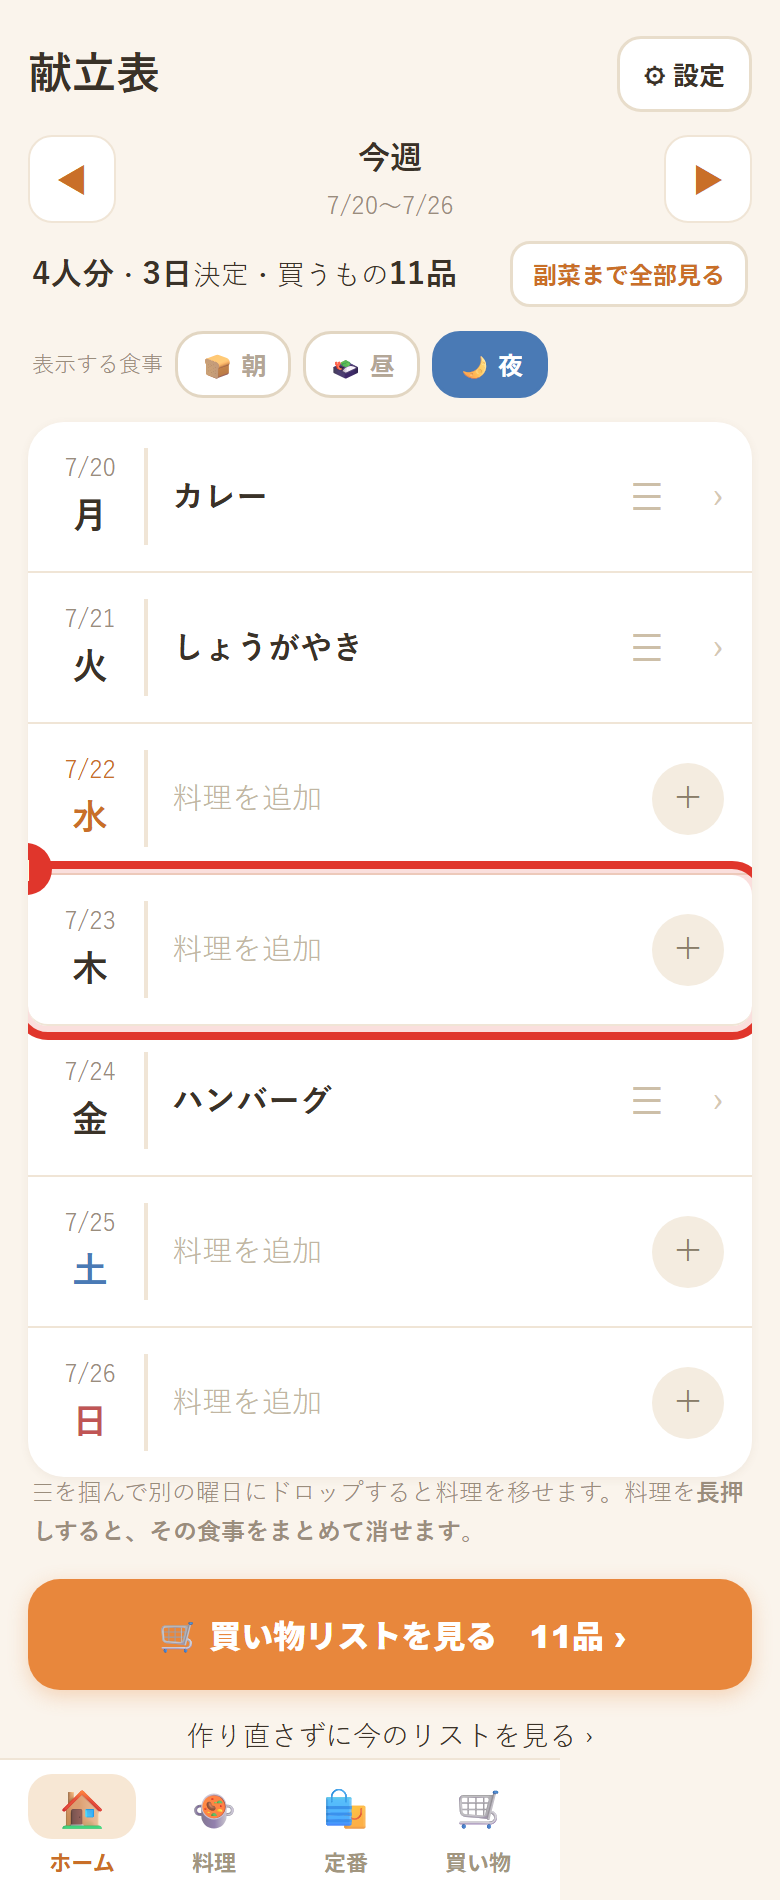
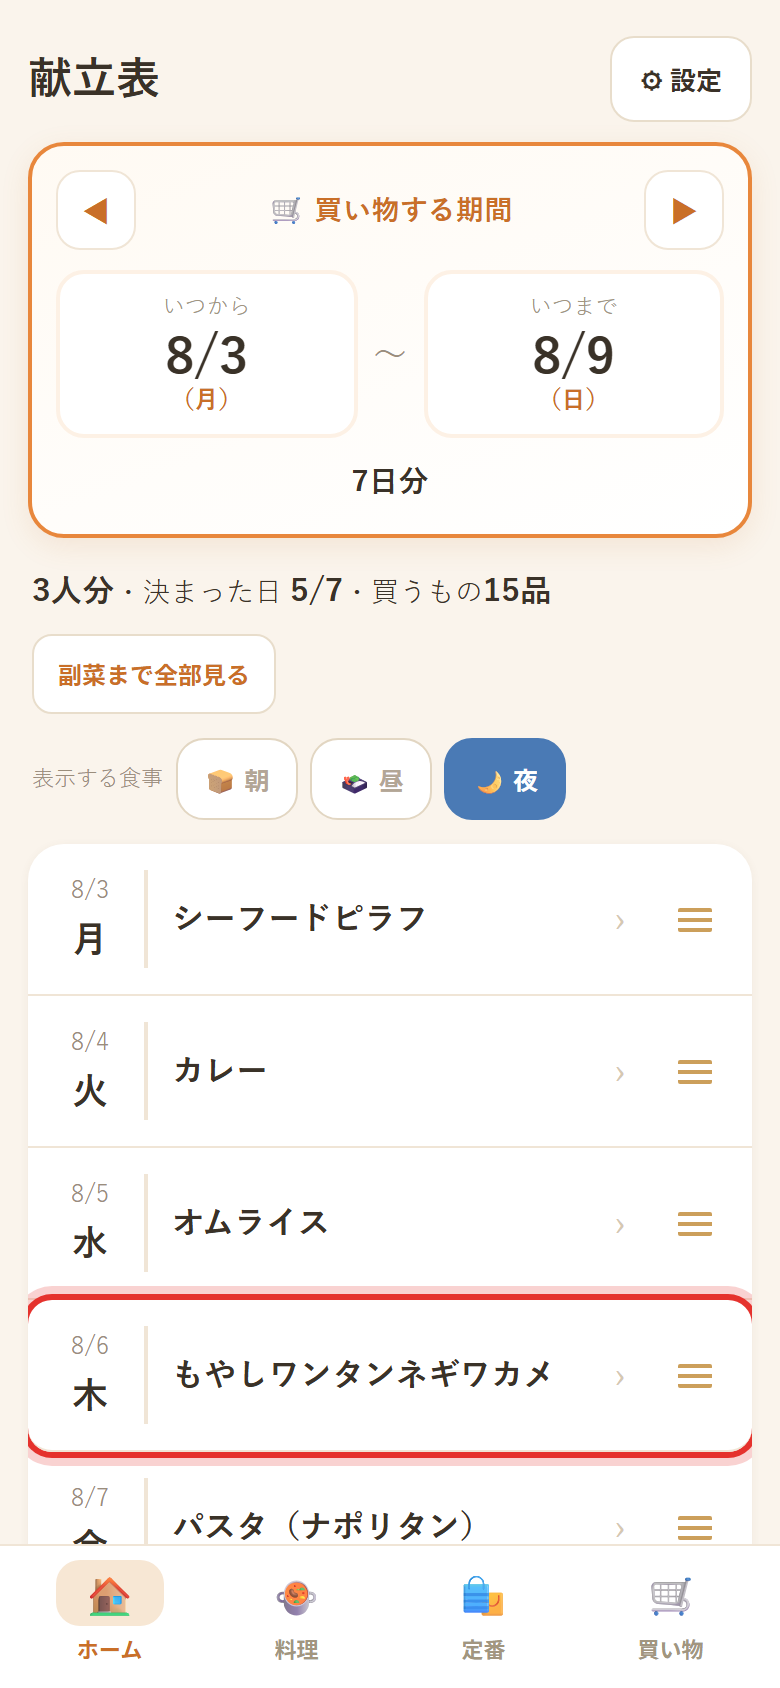
ガイドを今の画面に合わせて全面更新
【画面写真】13枚を撮り直し＋2枚を新規撮影
  旧デザインのまま（古い週ナビ、左端の点々つまみ、期間カード無し）
  だったので、現在の画面で撮り直した。買い物リストの写真には
  材料の出どころ表示・🗑・新しいチェックの見た目も写っている

【新セクション】「買い物中に助かる」を追加（両ページ・目次からも飛べる）
  🗑 今回いらない物を消す／↩ 元に戻す／🍛 材料の出どころ／
  📋 文字でコピー の4つを説明。元に戻すバーとコピーボタンの
  写真つき（g15-undo / g16-copy）

diff --git a/start.html b/start.html
@@ -279,6 +279,7 @@ footer{text-align:center;padding:34px 0;color:var(--sub);font-size:12.5px;font-w
       <a class="toc-card" href="#level"><span class="toc-ic">⭐</span><span class="toc-tx"><b>便利ワザ</b><small>もっとラクになる4つのコツ</small></span></a>
       <a class="toc-card" href="#shop"><span class="toc-ic">🏪</span><span class="toc-tx"><b>お店で分ける</b><small>買い物を店ごとに整理</small></span></a>
       <a class="toc-card" href="#period"><span class="toc-ic">📅</span><span class="toc-tx"><b>買い物の期間</b><small>土曜〜次の土曜など自由に</small></span></a>
+      <a class="toc-card" href="#handy"><span class="toc-ic">🗑</span><span class="toc-tx"><b>買い物中に助かる</b><small>消しても戻せる・出どころ</small></span></a>
       <a class="toc-card" href="#share"><span class="toc-ic">👥</span><span class="toc-tx"><b>家族と共有</b><small>リアルタイムでリストを共有</small></span></a>
       <a class="toc-card" href="#week"><span class="toc-ic">🕘</span><span class="toc-tx"><b>買い物の履歴</b><small>過去のリストを見返す</small></span></a>
       <a class="toc-card" href="#useful"><span class="toc-ic">💡</span><span class="toc-tx"><b>困ったときは</b><small>よくあるお悩み解決</small></span></a>
@@ -552,6 +553,28 @@ footer{text-align:center;padding:34px 0;color:var(--sub);font-size:12.5px;font-w
         <div class="tip"><b>例：土曜・8日・昼まで</b> と設定すると、土曜の朝から次の土曜のお昼までに食べる料理の材料だけがリストに出ます。日曜と月曜の間で区切られないので、買い足しが減ります。</div>
         <div class="tip"><b>そのままでもOK。</b> はじめは「月曜から7日分」になっています。今まで通りに使いたい方は、さわらなくて大丈夫です。</div>
         <p>今の設定はホーム画面の「🛒 買い物リストを見る」のすぐ下に「買い物のぶん：8/1〜8/8」のように出ています。そこを押しても変えられます。</p>
+      </div>
+    </div>
+  </div>
+</section>
+
+<!-- ============ 買い物中に助かる3つ ============ -->
+<section id="handy" style="padding-top:0">
+  <div class="wrap">
+    <div class="two reveal">
+      <div class="stephead"><span class="eyebrow e-p">NEW ・ 買い物中に助かる</span><h3 style="font-size:clamp(19px,2.7vw,25px);font-weight:900;line-height:1.4">消しても戻せる。<br>何に使うかも分かる。</h3></div>
+      <div class="stepbody">
+        <p style="color:var(--sub);margin-top:12px;font-size:15px;font-weight:500">お店で片手で使うことを考えて、うっかりを取り返せるようにしています。</p>
+        <h4 style="margin:18px 0 6px;font-size:16px">🗑 今回いらない物は消せる</h4>
+        <p>「これは家にまだある」という物は、行の右にある<b>🗑</b>で消せます。消した物は、そのあと献立を変えて反映しても<b>戻ってきません</b>（買い物を完了して次のリストを作れば、また出てきます）。</p>
+        <h4 style="margin:18px 0 6px;font-size:16px">↩ 消しても数秒だけ戻せる</h4>
+        <p>消したあと画面の下に「<b>元に戻す</b>」が出ます。品物を消した時だけでなく、<b>献立をまとめて消した時</b>や<b>買い物を完了した時</b>にも出るので、押し間違えても取り返せます。</p>
+        <div class="scr" style="margin:10px 0"><img src="assets/g15-undo.png" alt="買い物リストの下に出る「元に戻す」のバー"></div>
+        <h4 style="margin:18px 0 6px;font-size:16px">🍛 その材料が何に使うか分かる</h4>
+        <p>品名の下に、その材料を使う<b>料理の名前</b>が小さく出ます。「このひき肉、何に使うんだっけ」がその場で分かるので、買う量を減らすか迷った時に役立ちます。定番の物は「定番」、手で足した物は「手で追加」と出ます。</p>
+        <h4 style="margin:18px 0 6px;font-size:16px">📋 LINEなどに文字で送れる</h4>
+        <p>アプリを使っていない家族に頼む時は「<b>リストを文字でコピー</b>」。売り場ごとに整った文字になるので、LINEにそのまま貼れます。</p>
+        <div class="scr" style="margin:10px 0"><img src="assets/g16-copy.png" alt="買い物リストを文字でコピーするボタン"></div>
       </div>
     </div>
   </div>

diff --git a/guide.html b/guide.html
@@ -161,6 +161,7 @@ details p{padding:0 34px 18px 0;color:var(--muted);font-size:14px}
       <a class="toc-card" href="#guide"><span class="toc-ic">📱</span><span class="toc-tx"><b>つかいかた</b><small>まず4ステップだけ見る</small></span></a>
       <a class="toc-card" href="#level"><span class="toc-ic">⭐</span><span class="toc-tx"><b>便利ワザ</b><small>もっとラクになる4つのコツ</small></span></a>
       <a class="toc-card" href="#stores"><span class="toc-ic">🏪</span><span class="toc-tx"><b>お店で分ける</b><small>買い物を店ごとに整理</small></span></a>
+      <a class="toc-card" href="#handy"><span class="toc-ic">🗑</span><span class="toc-tx"><b>買い物中に助かる</b><small>消しても戻せる</small></span></a>
       <a class="toc-card" href="#share"><span class="toc-ic">👥</span><span class="toc-tx"><b>家族と共有</b><small>リアルタイムでリストを共有</small></span></a>
       <a class="toc-card" href="#week"><span class="toc-ic">🕘</span><span class="toc-tx"><b>買い物の履歴</b><small>過去のリストを見返す</small></span></a>
       <a class="toc-card" href="#useful"><span class="toc-ic">💡</span><span class="toc-tx"><b>困ったときは</b><small>よくあるお悩み解決</small></span></a>
@@ -377,6 +378,24 @@ details p{padding:0 34px 18px 0;color:var(--muted);font-size:14px}
       </ol>
       <div class="tip"><strong>例：土曜・8日・昼まで</strong>と設定すると、土曜の朝から次の土曜のお昼までに食べる料理の材料だけがリストに出ます。日曜と月曜の間で区切られないので、買い足しが減ります。</div>
       <div class="tip"><strong>そのままでもOK。</strong>はじめは「月曜から7日分」になっています。今まで通りに使いたい方は、さわらなくて大丈夫です。</div>
+    </div>
+  </div>
+</section>
+
+<section class="optional" id="handy">
+  <div class="wrap optional-card">
+    <div class="optional-image"><div class="screen" data-full="assets/g15-undo.png"><img src="assets/g15-undo.png" alt="買い物リストの下に出る「元に戻す」のバー"></div></div>
+    <div>
+      <p class="eyebrow">NEW・買い物中に助かる</p>
+      <h2>消しても戻せる。何に使うかも分かる。</h2>
+      <p>お店で片手で使うことを考えて、うっかりを取り返せるようにしています。</p>
+      <ol class="mini-steps">
+        <li><strong>🗑 今回いらない物は消せる</strong>：行の右の🗑で消せます。消した物は献立を変えて反映しても戻ってきません（次のリストを作れば、また出てきます）</li>
+        <li><strong>↩ 消しても数秒だけ戻せる</strong>：画面の下に「元に戻す」が出ます。献立をまとめて消した時や、買い物を完了した時にも出ます</li>
+        <li><strong>🍛 その材料が何に使うか分かる</strong>：品名の下に料理の名前が小さく出ます。定番は「定番」、手で足した物は「手で追加」と出ます</li>
+        <li><strong>📋 LINEなどに文字で送れる</strong>：「リストを文字でコピー」で、売り場ごとに整った文字になります</li>
+      </ol>
+      <div class="tip"><strong>押し間違えても大丈夫。</strong>消す操作にはすべて「元に戻す」が付いています。</div>
     </div>
   </div>
 </section>
